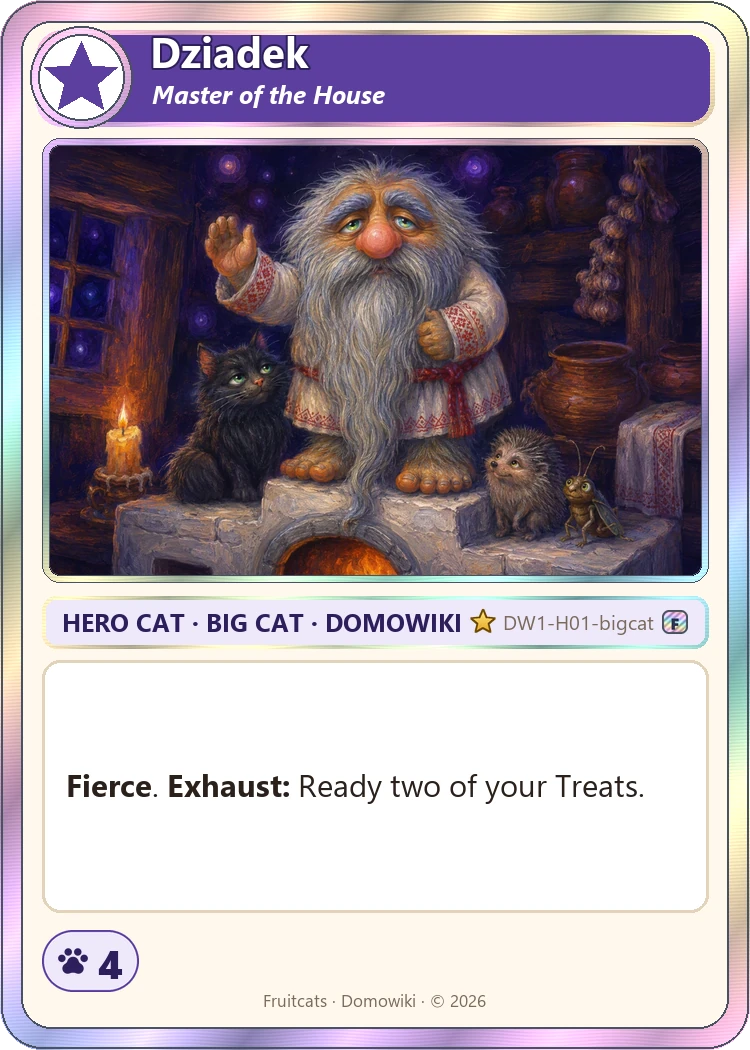
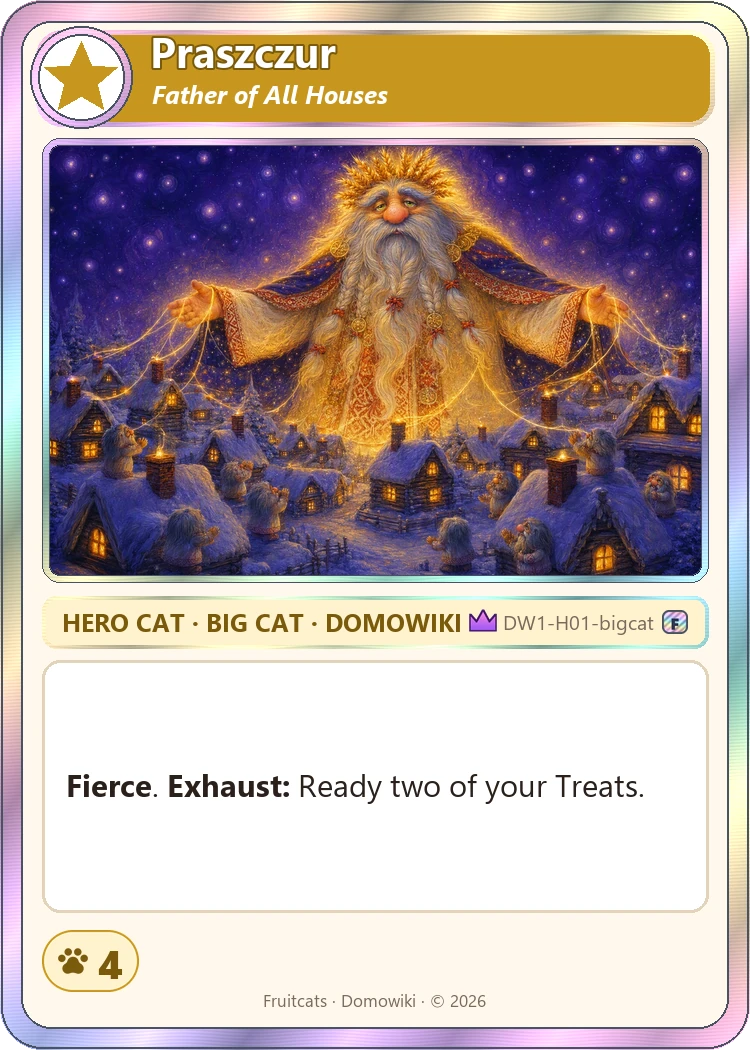
Domowiki: the hero is Praszczur, the First Forefather: Legendary, gold-framed, enthroned and radiant
A deck's hero must read as more exalted than the rest of its deck (the owner's rule). The lore's highest figure: each
Domowik is the household's piece of Rod, the god of kin, and praszczur (the first forefather) shares its root with
Chur, the ancestor god of the hearth. Same rules as before; new name, Legendary, a gold frame, and new art for both
sides.

diff --git a/docs/domowiki-set.md b/docs/domowiki-set.md
@@ -36,15 +36,22 @@ fantasy: offerings (Treats) now, and the big spirits wake once the house is **We
 - Gameplay that follows the folklore more closely (angry Domowiki, moving house, the warm or cold hand) can come
   later, as the deck is tuned; nothing here needs engine code.
 
-## Hero: Dziadek, the House Grandfather (DW1-H01, Rare)
+## Hero: Praszczur, the First Forefather (DW1-H01, Legendary)
 
 | Side | Name | Power | Text |
 |---|---|---|---|
-| Kitten | Dziadek, New to the House | – | Exhaust: Ready one of your Treats. Grow Up: You have 8 or more Treats. |
-| Big Cat | Dziadek, Master of the House | 4 | Fierce. Exhaust: Ready two of your Treats. |
+| Kitten | Praszczur, the First Forefather | – | Exhaust: Ready one of your Treats. Grow Up: You have 8 or more Treats. |
+| Big Cat | Praszczur, Father of All Houses | 4 | Fierce. Exhaust: Ready two of your Treats. |
 
-*Dziadek* is Polish for grandfather: families called the house spirit "grandfather". The engine still calls the
-leader a Hero Cat, with Kitten and Big Cat sides; renaming those is part of the wider re-theme.
+A deck's hero must read as more exalted than every other card in it (the owner's rule, 2026-09-26). Folklore has no
+king of the Domowiki, but it has something higher: folklorists describe each Domowik as the household's own piece of
+**Rod**, the god of kin and ancestors, and the Polish **praszczur** ("the first forefather") shares its root with
+**Chur**, the ancestor god who guarded the hearth. So the hero is the forefather every Domowik descends from:
+enthroned and crowned with wheat as the Kitten, and as the Big Cat a radiant spirit over a whole village, blessing
+every house's hearth. It is Legendary (the crown mark) and the only card in the deck with a gold frame.
+
+The engine still calls the leader a Hero Cat, with Kitten and Big Cat sides; renaming those is part of the wider
+re-theme (docs/retheme-proposal.md).
 
 ## The deck (50 cards)
 

diff --git a/content/2026/10/domowiki/art/cards/README.md b/content/2026/10/domowiki/art/cards/README.md
@@ -2,12 +2,12 @@
 
 Generated by `tools/generate_art.py` (art) and `tools/compose_cards.py` (frames and text).
 
-## Dziadek, the House Grandfather — the mightiest Hero Cat
+## Praszczur, the First Forefather — the mightiest Hero Cat
 
 The only Big Cat with 4 Power and Fierce.
 
 <table>
-<tr><td align="center"><img src="DW1-H01-kitten.webp" width="300" alt="Dziadek, New to the House (Kitten)"><br><b>Dziadek, New to the House (Kitten)</b><br><sub>DW1-H01-kitten</sub></td><td align="center"><img src="DW1-H01-bigcat.webp" width="300" alt="Dziadek, Master of the House (Big Cat)"><br><b>Dziadek, Master of the House (Big Cat)</b><br><sub>DW1-H01-bigcat</sub></td></tr>
+<tr><td align="center"><img src="DW1-H01-kitten.webp" width="300" alt="Praszczur, the First Forefather (Kitten)"><br><b>Praszczur, the First Forefather (Kitten)</b><br><sub>DW1-H01-kitten</sub></td><td align="center"><img src="DW1-H01-bigcat.webp" width="300" alt="Praszczur, Father of All Houses (Big Cat)"><br><b>Praszczur, Father of All Houses (Big Cat)</b><br><sub>DW1-H01-bigcat</sub></td></tr>
 </table>
 
 ## All Hero Cats
@@ -18,7 +18,7 @@ Each Hero Cat starts as a Kitten and Grows Up into a Big Cat. .
 
 </table>
 
-## Domowiki deck (led by Dziadek, the House Grandfather)
+## Domowiki deck (led by Praszczur, the First Forefather)
 
 <table>
 <tr><td align="center"><img src="DW1-D01.webp" width="180" alt="Stove Keeper"><br><b>Stove Keeper</b><br><sub>DW1-D01 ×3</sub></td><td align="center"><img src="DW1-D02.webp" width="180" alt="Moving-Day Domowik"><br><b>Moving-Day Domowik</b><br><sub>DW1-D02 ×3</sub></td><td align="center"><img src="DW1-D03.webp" width="180" alt="Mane-Braiding Domowik"><br><b>Mane-Braiding Domowik</b><br><sub>DW1-D03 ×3</sub></td><td align="center"><img src="DW1-D04.webp" width="180" alt="Grandfather Domowik"><br><b>Grandfather Domowik</b><br><sub>DW1-D04 ×3</sub></td></tr>
